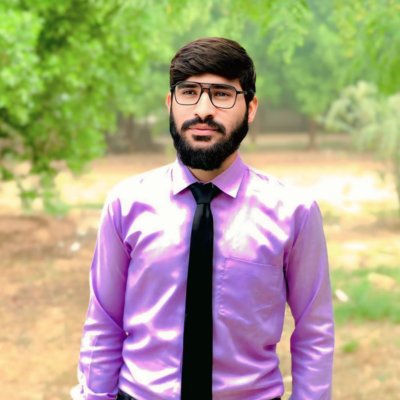
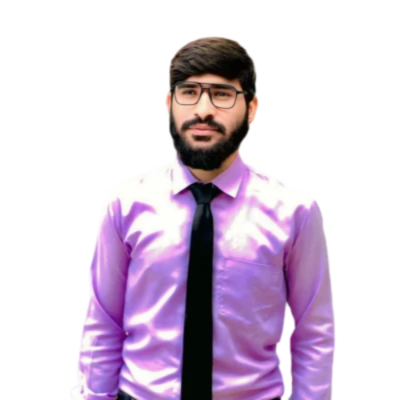
update

diff --git a/src/app/(site)/team/page.tsx b/src/app/(site)/team/page.tsx
@@ -135,7 +135,7 @@ export default function TeamPage() {
           src={member.photo}
           alt={member.name}
           fill
-          className="object-cover transition-transform duration-300 group-hover:scale-110"
+          className="object-contain transition-transform duration-300 group-hover:scale-110"
         />
         <div className="absolute inset-0 bg-gradient-to-t from-black/70 to-transparent opacity-0 transition-opacity group-hover:opacity-100" />
         <p className="absolute bottom-4 left-4 right-4 text-sm font-medium text-white opacity-0 transition-opacity group-hover:opacity-100">
